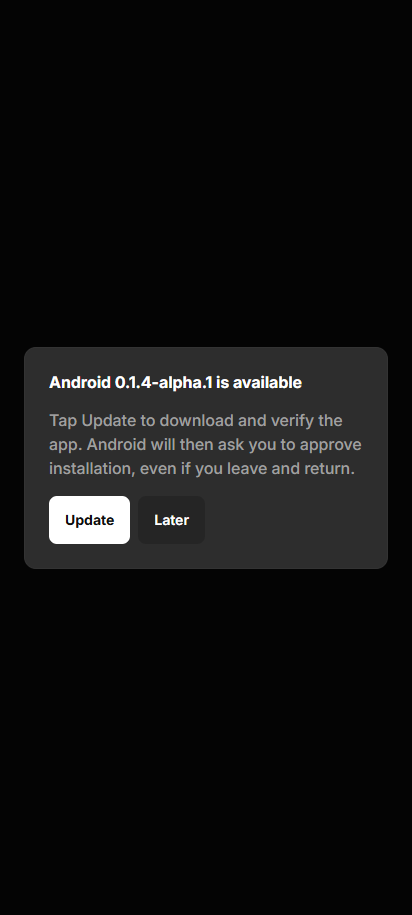
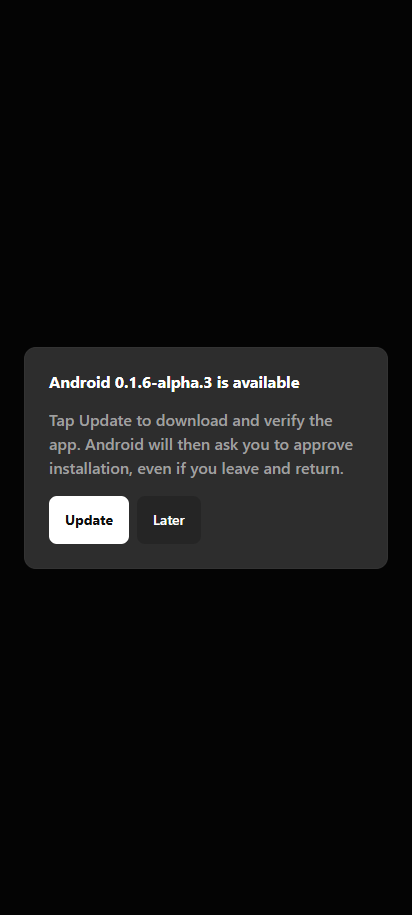
test(android): verify published two-step upgrade and retained settings

Changed region(s): [[0.1165, 0.3978, 0.8738, 0.5202], [0.1748, 0.5508, 0.2913, 0.5814], [0.3786, 0.5508, 0.466, 0.5814]]

diff --git a/apps/mobile/modules/streamfusion-native-contracts/android/src/test/java/expo/modules/streamfusionnativecontracts/UpdaterHandoffTest.kt b/apps/mobile/modules/streamfusion-native-contracts/android/src/test/java/expo/modules/streamfusionnativecontracts/UpdaterHandoffTest.kt
@@ -162,13 +162,25 @@ class UpdaterHandoffTest {
   @Test fun backgroundAndLaterForegroundCannotResumeAnOldVerifiedHandoff() = withEngine { engine, journal ->
     val activity = Robolectric.buildActivity(Activity::class.java).setup().get()
     engine.onForeground(activity)
-    val handoff = handoff(engine, journal)
-    engine.onBackground()
-    engine.onForeground(activity)
+    awaitForegroundWork(engine)
+    val entered = CountDownLatch(1)
+    val release = CountDownLatch(1)
+    updaterExecutor(engine).submit { entered.countDown(); release.await(5, TimeUnit.SECONDS) }
+    assertTrue(entered.await(5, TimeUnit.SECONDS))
+    val handoff = handoff(engine, journal, installIntent = true)
 
-    continueHandoff(engine, handoff)
+    try {
+      engine.onBackground()
+      engine.onForeground(activity)
+      continueHandoff(engine, handoff)
 
-    assertEquals("ready", journal.read().kind)
+      assertEquals("ready", journal.read().kind)
+      assertTrue(journal.read().installIntent)
+    } finally { release.countDown() }
+    awaitForegroundWork(engine)
+
+    assertEquals("failed", journal.read().kind)
+    assertEquals("checksum", journal.read().code)
   }
 
   @Test fun currentForegroundHandoffReachesTheInstallerVerificationGate() = withEngine { engine, journal ->
@@ -186,7 +198,8 @@ class UpdaterHandoffTest {
   @Test fun canceledGenerationCannotResumeAnOldVerifiedHandoff() = withEngine { engine, journal ->
     val activity = Robolectric.buildActivity(Activity::class.java).setup().get()
     engine.onForeground(activity)
-    val handoff = handoff(engine, journal)
+    awaitForegroundWork(engine)
+    val handoff = handoff(engine, journal, installIntent = true)
     journal.write(journal.read().copy(kind = "canceled", generation = 8))
 
     continueHandoff(engine, handoff)

diff --git a/apps/mobile/src/features/app-update/components/update-dialog.stories.tsx b/apps/mobile/src/features/app-update/components/update-dialog.stories.tsx
@@ -4,12 +4,12 @@ import { updatePresentation } from "../domain/update-presentation";
 import type { UpdatePhase, UpdateRelease } from "../capabilities/android-updater";
 
 const release: UpdateRelease = {
-  tag: "android-v0.1.4-alpha.1",
-  version: "0.1.4-alpha.1",
+  tag: "android-v0.1.6-alpha.3",
+  version: "0.1.6-alpha.3",
   apkBytes: 178_185_644,
   apkSha256: "a".repeat(64),
   notes: "Player fixes.",
-  releaseUrl: "https://github.com/TheDarkSkyXD/StreamFusion/releases/tag/android-v0.1.4-alpha.1",
+  releaseUrl: "https://github.com/TheDarkSkyXD/StreamFusion/releases/tag/android-v0.1.6-alpha.3",
 };
 
 function Story({ phase, operationError }: { readonly phase: UpdatePhase; readonly operationError?: string }) {

diff --git a/verification/evidence/mobile-update-two-step/README.md b/verification/evidence/mobile-update-two-step/README.md
@@ -8,20 +8,34 @@ The old engine reproduced an extra app Install step after background completion.
 
 | Check | Result |
 | --- | --- |
-| Android 15 download completes on Home, then app reopens | Android approval opens without an app Install tap. Approval replaces code 1 with code 2 and retains the private marker. |
+| Android 15 download completes on Home, then app reopens | Android approval opens without an app Install tap. |
+| Android 15 approval canceled, Home, app reopens | Remains failed/install-blocked with installIntent=false. Approval does not reopen. Explicit retry opens approval and replaces code 1 with code 2 while retaining the private marker. |
 | Android 11 permission denied, Home, app reopens | Remains permission-needed with installIntent=false. Settings does not reopen. |
 | Android 11 new update, grant permission, return | Android kills PID 3369 for REQUEST_INSTALL_PACKAGES changed. PID 5329 restores the operation and opens approval without an app Install tap. Approval replaces code 1 with code 2 and retains the marker. |
 | Original emulator development app replacement | Installed 0.1.6-alpha.3, code 9, with install -r. SecureStore file hash is identical before and after replacement. The original production app remains installed. |
+| Published production APK upgrade on Android 15 | Alpha.2 code 8 downloaded Alpha.3 from GitHub, verified it, and opened Android Update automatically. Approval installed code 9. Prereleases and return checks remain enabled; Weekly remains selected. |
 
 The Android proof APK contains the exact production updater classes and an isolated file transport. It uses its own package and signing key. It proves native verification, permission recovery, Android approval, replacement, and data retention. It does not prove the reported phone failure or a GitHub download. The dialog screenshot renders the production React Native component in Storybook.
 
[2 lines of base64/hex data omitted]
+
+## Published release
+
+[Android 0.1.6-alpha.3](https://github.com/TheDarkSkyXD/StreamFusion/releases/tag/android-v0.1.6-alpha.3) is published. The [release workflow](https://github.com/TheDarkSkyXD/StreamFusion/actions/runs/37868412648) completed successfully from commit `a70b99c62ee31463d5dcbebfb4bb7e9480754fef`.
+
[1 lines of base64/hex data omitted]
+
+The production upgrade above uses Alpha.2's existing initial Download label. The new Alpha.3 dialog labels that action Update. The isolated native proof exercises Alpha.3's new background and restored-permission behavior. The specific phone failure remains unconfirmed.
 
 ## Regression checks
 
-The same handoff tests against the old engine report `11 tests completed, 5 failed`. The final engine passes all 18 native tests, including 11 handoff cases. Restored permission tests skip the first reconciliation of their deliberately invalid APK fixture, then assert that foreground continuation reaches the real checksum gate. Successful installation is proven separately above.
+The initial handoff regression suite against the old engine reports `11 tests completed, 5 failed`. After tightening the stale callback check, the final handoff suite against that old engine reports `11 tests completed, 6 failed`. The final engine passes all 18 native tests, including 11 handoff cases. Restored permission tests skip the first reconciliation of their deliberately invalid APK fixture, then assert that foreground continuation reaches the real checksum gate. Successful installation is proven separately above.
+
+The stale callback regression now starts with authorized install intent and holds the worker until it checks the old foreground lease. Removing that lease guard makes the test fail. Restoring the guard passes all 18 native tests. The released production engine is unchanged by this test-only follow-up.
 
 Mobile checks pass all 180 Vitest files and 1,040 tests, Node tests, architecture import proof, lint, typecheck, 15 release identity tests, and six release-set tests. React Doctor reports 100/100 with no issues. The exact-source native proof uses the Windows AtomicFile test shadow documented in [the previous verification](../mobile-update-handoff/README.md). The normal generated Expo module test task remains unqualified because its existing Kotlin internal visibility configuration does not compile those tests.
+
+The [main CI run](https://github.com/TheDarkSkyXD/StreamFusion/actions/runs/37868408456) passes desktop, core, and mobile verification. Its complete dependency audit fails with the same 91 advisories reported by the [previous release's main CI run](https://github.com/TheDarkSkyXD/StreamFusion/actions/runs/37862632775). The Android release workflow separately passes its shipped dependency audit. This change does not claim a green complete repository CI run.
 
 Rebuild native proof with `verification/scripts/build-mobile-updater-native-proof.ps1`. Tap Update, finish permission setup when required, then approve Android installation. For background completion, launch with chunkDelayMs 600, tap Update, press Home, wait for the journal to reach ready, and reopen. Android approval must open automatically.
 
@@ -31,8 +45,14 @@ Rebuild native proof with `verification/scripts/build-mobile-updater-native-proo
 - [Old background completion waiting for Install](background-before.png)
 - [Android 15 automatic approval](android15-automatic-approval.png)
 - [Android 15 installed with retained data](android15-installed.png)
+- [Android 15 approval canceled without a loop](android15-approval-canceled.png)
 - [Android 11 denied permission without a loop](android11-permission-denied.png)
 - [Android 11 approval after process replacement](android11-restored-approval.png)
 - [Android 11 installed with retained data](android11-installed.png)
+- [Updated development app and preserved preferences](development-updated.png)
+- [Production version before the upgrade](production-before-upgrade.png)
+- [Production Android approval opened automatically](production-android-approval.png)
+- [Production Alpha.3 installation confirmed](production-installed.png)
+- [Production preferences retained after upgrade](production-preferences-retained.png)
 
 Xtra's source automatically commits the installer session when the download completes. Its first source-permission setup still depends on Android. [Xtra updater source](https://github.com/crackededed/Xtra/blob/a3cbb0325f3330573a6738f7d36a2c5b785f4d1c/app/src/main/java/com/github/andreyasadchy/xtra/ui/settings/SettingsViewModel.kt).
